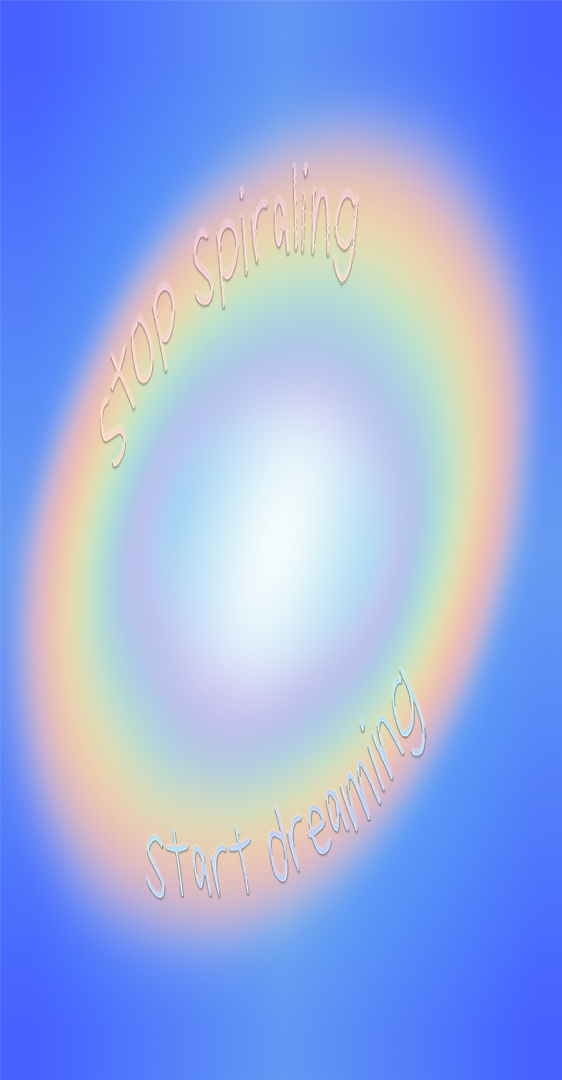
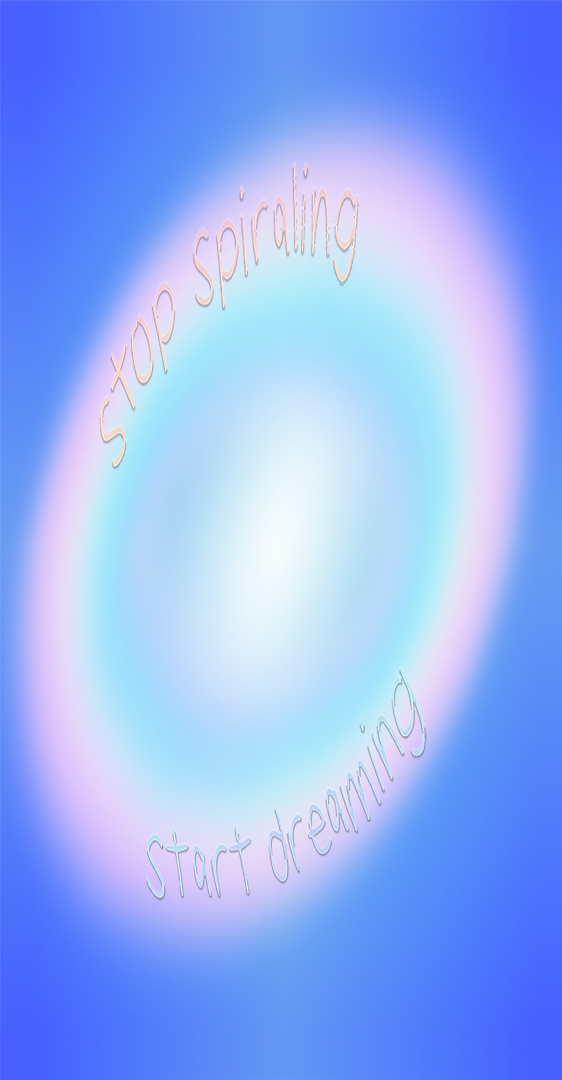
update

diff --git a/matrix/adventure-matrix.html b/matrix/adventure-matrix.html
@@ -1597,10 +1597,8 @@ function confirmSkipUnsent() {
 
 // ── NATIVE JOURNAL (chat-style) ──────────────────────────
 // Each send appends a message to saved_data.journal_messages (jsonb) on this
-// playthrough's row. diary_text is kept in sync (joined message text) so the
-// matrix "notes" tile + archive keep reading it unchanged. Photo'd messages
-// also push into matrix_images (source:'journal') so matrix quadrant
-// placement is untouched. Legacy rows (only diary_text) render as one bubble.
+// playthrough's row. Photo'd messages also push into matrix_images
+// (source:'journal') so matrix quadrant placement is untouched.
 const journal = { entries: [], pendingImage: null };
 
 function buildJournalPanel(){
@@ -1638,21 +1636,9 @@ function jrcEscape(s){ return (s||'').replace(/[&<>"']/g, c=>({'&':'&amp;','<':'
 function jrcTime(iso){ return new Date(iso||Date.now()).toLocaleTimeString('en-US',{hour:'numeric',minute:'2-digit'}); }
 function jrcDay(iso){ return new Date(iso||Date.now()).toLocaleDateString('en-US',{month:'long',day:'numeric',year:'numeric'}); }
 
-// Legacy single journal image lived in matrix_images tagged source:'journal'.
-function jrcRowJournalImage(row){
-  const imgs = Array.isArray(row?.matrix_images) ? row.matrix_images : [];
-  const j = imgs.find(i => i && i.source === 'journal');
-  return j?.url || '';
-}
-// Normalize a saved_data row into an ordered list of message objects. New rows
-// carry journal_messages; legacy rows surface diary_text as a single message.
 function jrcRowMessages(row){
   const arr = Array.isArray(row?.journal_messages) ? row.journal_messages : [];
-  if (arr.length) return arr.slice().sort((a,b)=> new Date(a.created_at||0) - new Date(b.created_at||0));
-  const txt = (row?.diary_text||'').trim();
-  const img = jrcRowJournalImage(row);
-  if (txt || img) return [{ id:'legacy-'+row.id, text:txt, image_url:img, created_at:row.created_at }];
-  return [];
+  return arr.slice().sort((a,b)=> new Date(a.created_at||0) - new Date(b.created_at||0));
 }
 
 function renderJournalMessage(msg, isToday){
@@ -1689,7 +1675,7 @@ async function loadJournalEntries(){
   let rows = [];
   try {
     const { data } = await sb.from('saved_data')
-      .select('id, diary_text, journal_messages, matrix_images, created_at')
+      .select('id, journal_messages, matrix_images, created_at')
       .eq('game_id', activeGameId).eq('user_id', currentUser.id)
       .order('created_at',{ ascending:true }).limit(60);
     rows = data || [];
@@ -1767,7 +1753,7 @@ async function sendJournalMessage(){
 
   const message = { id: crypto.randomUUID(), text, image_url: imageUrl, created_at: new Date().toISOString() };
 
-  // 2) read current row, append, recompute diary_text, merge matrix_images
+  // 2) read current row, append, merge matrix_images
   let row = {};
   try {
     const { data } = await sb.from('saved_data')
@@ -1775,7 +1761,6 @@ async function sendJournalMessage(){
     row = data || {};
   } catch(e){}
   const messages  = (Array.isArray(row.journal_messages) ? row.journal_messages : []).concat([message]);
-  const diaryText = messages.map(m => m.text).filter(Boolean).join('\n\n');
   let imgs = Array.isArray(row.matrix_images) ? row.matrix_images : [];
   if (imageUrl) imgs = imgs.concat([{ url:imageUrl, quadrant:'internal-feeling', source:'journal' }]);
 
@@ -1783,7 +1768,7 @@ async function sendJournalMessage(){
   try {
     const { error } = await sb.from('saved_data').upsert({
       id: activeEntryId, game_id: activeGameId, user_id: currentUser.id,
-      diary_text: diaryText, journal_messages: messages, matrix_images: imgs,
+      journal_messages: messages, matrix_images: imgs,
       updated_at: new Date().toISOString(),
     }, { onConflict: 'id' });
     if (error) throw error;
@@ -2010,7 +1995,9 @@ async function assembleTodayMatrixData(entryId){
       d.mapPhase     = row.map_phase || null;
       d.locationData = row.location_data || null;
       d.sidequestData= row.sidequest_data || null;
-      d.journalText  = row.diary_text || '';
+      d.journalText  = (Array.isArray(row.journal_messages)
+        ? row.journal_messages.map(m => m && m.text).filter(Boolean).join(' ')
+        : '');
       // All matrix photos — manual uploads AND journal images — now live in
       // matrix_images, each tagged to a quadrant (journal images: 'internal-feeling').
       d.matrixImages = Array.isArray(row.matrix_images) ? row.matrix_images : [];

diff --git a/matrix/matrix-render.js b/matrix/matrix-render.js
@@ -301,7 +301,9 @@
         d.mapPhase      = row.map_phase || null;
         d.locationData  = row.location_data || null;
         d.sidequestData = row.sidequest_data || null;
-        d.journalText   = row.diary_text || '';
+        d.journalText   = (Array.isArray(row.journal_messages)
+          ? row.journal_messages.map(m => m && m.text).filter(Boolean).join(' ')
+          : '');
         d.matrixImages  = Array.isArray(row.matrix_images) ? row.matrix_images : [];
         // dateLabel reflects the SAVE's local day, not "today".
         if (row.created_at) {
@@ -489,7 +491,7 @@
 
   // ── JOURNAL EDITOR ────────────────────────────────────────
   // deps = { sb, getEntryId(), onChange(), status(msg,color) }
-  // Edits saved_data.diary_text. Saving empty text clears the entry.
+  // Edits saved_data.journal_messages. Saving replaces with a single message; clearing removes all.
   function createJournalEditor(deps){
     deps = deps || {};
     const status = deps.status || function(){};
@@ -534,9 +536,12 @@
       if (!entryId){ statusEl.style.color = '#E8478B'; statusEl.textContent = 'no entry selected'; return; }
       saveEl.disabled = true; saveEl.textContent = 'saving…';
       const trimmed = textEl.value.trim();
+      const messages = trimmed.length
+        ? [{ id: crypto.randomUUID(), text: trimmed, image_url: null, created_at: new Date().toISOString() }]
+        : [];
       try {
         const { error } = await sb.from('saved_data')
-          .update({ diary_text: trimmed.length ? textEl.value : null })
+          .update({ journal_messages: messages })
           .eq('id', entryId);
         if (error) throw error;
         close();

diff --git a/matrix/archive.html b/matrix/archive.html
@@ -837,7 +837,7 @@ function onGameChange() { activeGameId = document.getElementById('game-dropdown'
 async function loadEntries() {
   if (!activeGameId) return;
   const { data } = await sb.from('saved_data')
-    .select('id, character_data, bingo_data, energy_score, map_phase, location_data, sidequest_data, diary_text, matrix_images, created_at')
+    .select('id, character_data, bingo_data, energy_score, map_phase, location_data, sidequest_data, journal_messages, matrix_images, created_at')
     .eq('game_id', activeGameId)
     .eq('user_id', currentUser.id)
     .order('created_at', { ascending:true });
